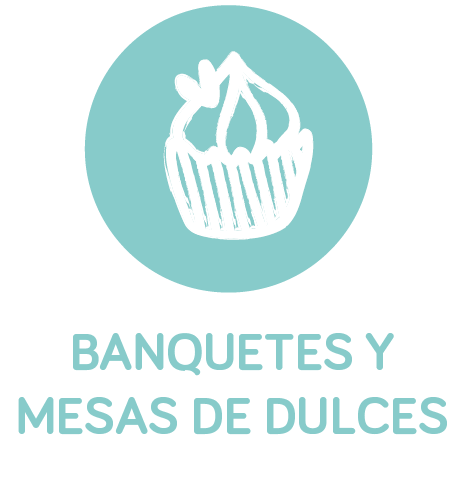
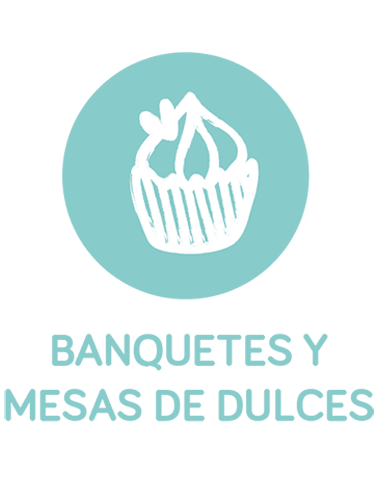
more

diff --git a/servicios.php b/servicios.php
@@ -144,25 +144,25 @@
                                 </div>
                                 <div class="row" style="text-align: center; vertical-align: middle;">
                                     <div class="column-1_7">
-                                        <img class="grow" src="images/ICONOS-04.PNG">
-                                    </div>
-                                    <div class="column-1_7" style="top: -8px;">
-                                        <img class="grow" src="images/ICONOS-05.PNG">
-                                    </div>
-                                    <div class="column-1_7" style="top: 3px;">
-                                        <img class="grow" src="images/ICONOS-06.PNG">
-                                    </div>
-                                    <div class="column-1_7" style="top: -6px;">
-                                        <img class="grow" src="images/ICONOS-07.PNG">
+                                        <img class="grow" src="images/ICONOS-04.png">
                                     </div>
                                     <div class="column-1_7">
-                                        <img class="grow" src="images/ICONOS-08.PNG">
+                                        <img class="grow" src="images/ICONOS-05.png">
                                     </div>
-                                    <div class="column-1_7" style="top: -5px;">
-                                        <img class="grow" src="images/ICONOS-09.PNG">
+                                    <div class="column-1_7"">
+                                        <img class="grow" src="images/ICONOS-06.png">
                                     </div>
-                                    <div class="column-1_7" style="top: 34px;">
-                                        <img class="grow" src="images/ICONOS-10.PNG">
+                                    <div class="column-1_7">
+                                        <img class="grow" src="images/ICONOS-07.png">
+                                    </div>
+                                    <div class="column-1_7">
+                                        <img class="grow" src="images/ICONOS-08.png">
+                                    </div>
+                                    <div class="column-1_7">
+                                        <img class="grow" src="images/ICONOS-09.png">
+                                    </div>
+                                    <div class="column-1_7">
+                                        <img class="grow" src="images/ICONOS-10.png">
                                     </div>
                                 </div>
                             </div>

diff --git a/nosotros.php b/nosotros.php
@@ -117,19 +117,19 @@
                                                                 <div class="table-responsive">
                                                                     <div class="barra">
                                                                         <div class="column-1_6">
-                                                                            <img class="grow" src="images/nos1.PNG">
+                                                                            <img class="grow" src="images/nos1.png">
                                                                         </div>
                                                                         <div class="column-1_6">
-                                                                            <img class="grow" src="images/nos2.PNG">
+                                                                            <img class="grow" src="images/nos2.png">
                                                                         </div>
                                                                         <div class="column-1_6">
-                                                                            <img class="grow" src="images/nos3.PNG">
+                                                                            <img class="grow" src="images/nos3.png">
                                                                         </div>
                                                                         <div class="column-1_6">
-                                                                            <img class="grow" src="images/nos4.PNG">
+                                                                            <img class="grow" src="images/nos4.png">
                                                                         </div>
                                                                         <div class="column-1_6">
-                                                                            <img class="grow" src="images/nos5.PNG">
+                                                                            <img class="grow" src="images/nos5.png">
                                                                         </div>
                                                                     </div>
                                                                 </div>
